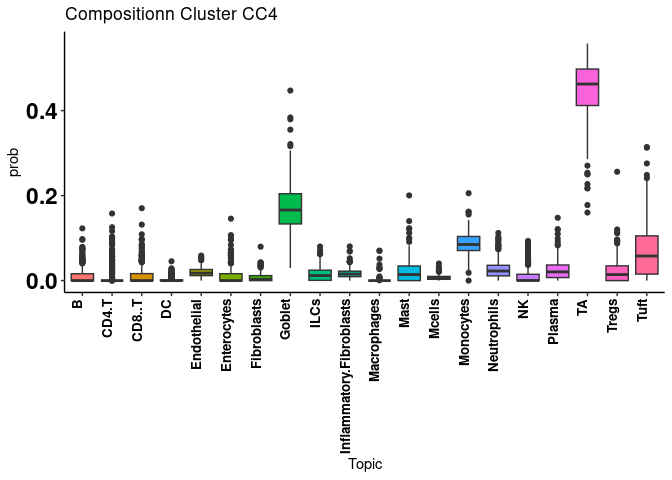
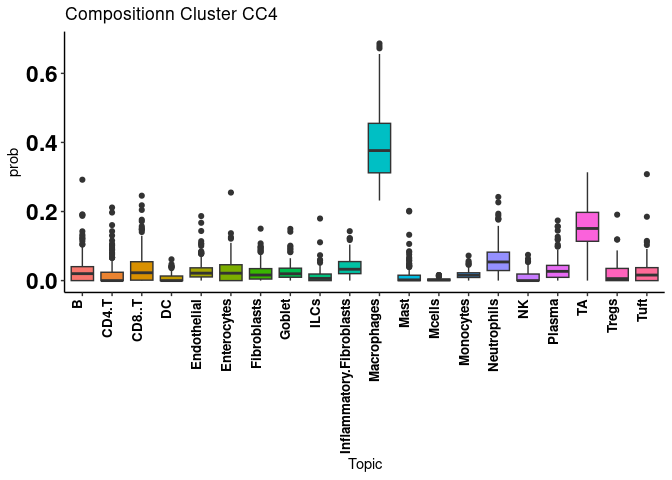
Final updates

diff --git a/README.md b/README.md
@@ -38,10 +38,14 @@ library(dplyr)
 ``` r
 
 ## basic example code
-load("./data/IBD.visium.rda")
-IBD.visium.P4 <- subset(IBD.visium, subset = orig.ident == "P4.noninf")
-IBD.visium.P4@images <- IBD.visium.P4@images[1]
-IBD.visium.P4$orig.ident <- factor(IBD.visium.P4$orig.ident, levels = unique(IBD.visium.P4$orig.ident))
+load("./data/IBD.visium.P4.rda")
+IBD.visium.P4 
+#> An object of class Seurat 
+#> 55545 features across 2185 samples within 3 assays 
+#> Active assay: SCT (18910 features, 12000 variable features)
+#>  2 other assays present: Spatial, predictions
+#>  2 dimensional reductions calculated: pca, umap
+#>  1 image present: P4.noninf
 
 # Extracting the deconvoluted cell type probability matrix from metadata
 deconv.mat <- as.matrix(IBD.visium.P4@meta.data[,9:28])
@@ -91,6 +95,7 @@ head(deconv.mat)
 
 # Deciding about the k
 Composition.cluster.k(deconv.mat, 20)
+#> Warning: did not converge in 10 iterations
 ```
 
 <img src="man/figures/README-Composition_clustering-1.png" width="100%" />
@@ -104,7 +109,7 @@ IBD.visium.P4 <- Composition.cluster(IBD.visium.P4, deconv.mat, 8)
 table(IBD.visium.P4$CompositionCluster_CC)
 #> 
 #> CC1 CC2 CC3 CC4 CC5 CC6 CC7 CC8 
-#> 412 161 250 309 396 296 246 115
+#> 248 399 269 163 315 115 378 298
 
 SpatialDimPlot(IBD.visium.P4, group.by = c("CompositionCluster_CC")) + scale_fill_manual(values = c("cyan", "orange", "purple","green","yellow","blue", "red","black"))
 #> Scale for fill is already present.
